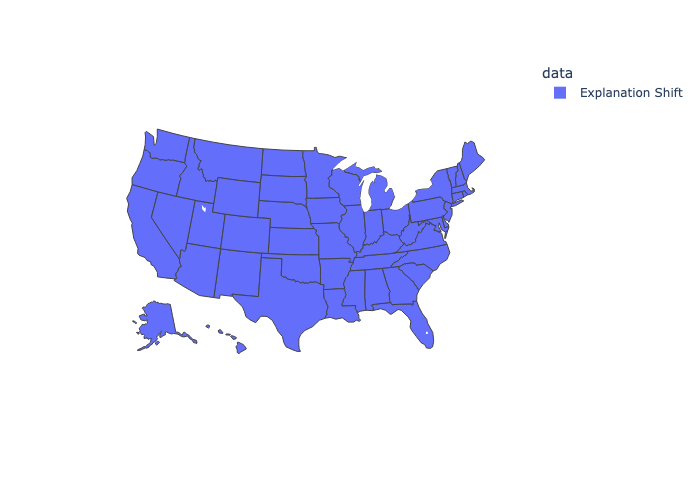
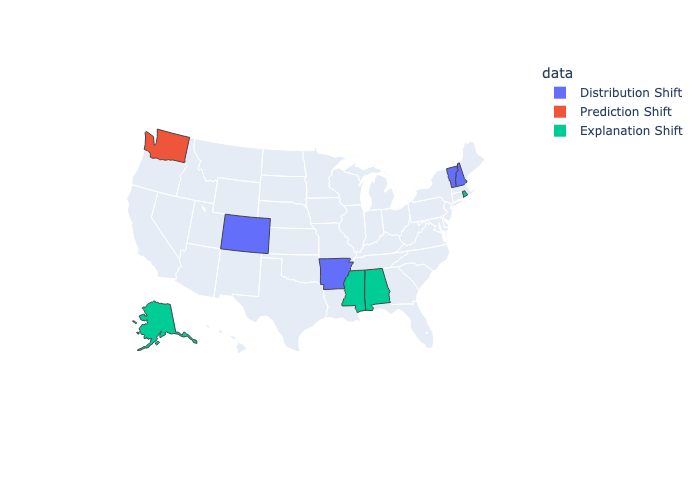
clean states taht did noot work

diff --git a/folks/quantificationPerformance.py b/folks/quantificationPerformance.py
@@ -97,10 +97,8 @@ nooo = [
     "AZ",
     "VA",
     "MA",
-    "AA",
     "NC",
     "SC",
-    "DC",
     "VT",
     "AR",
     "WA",
